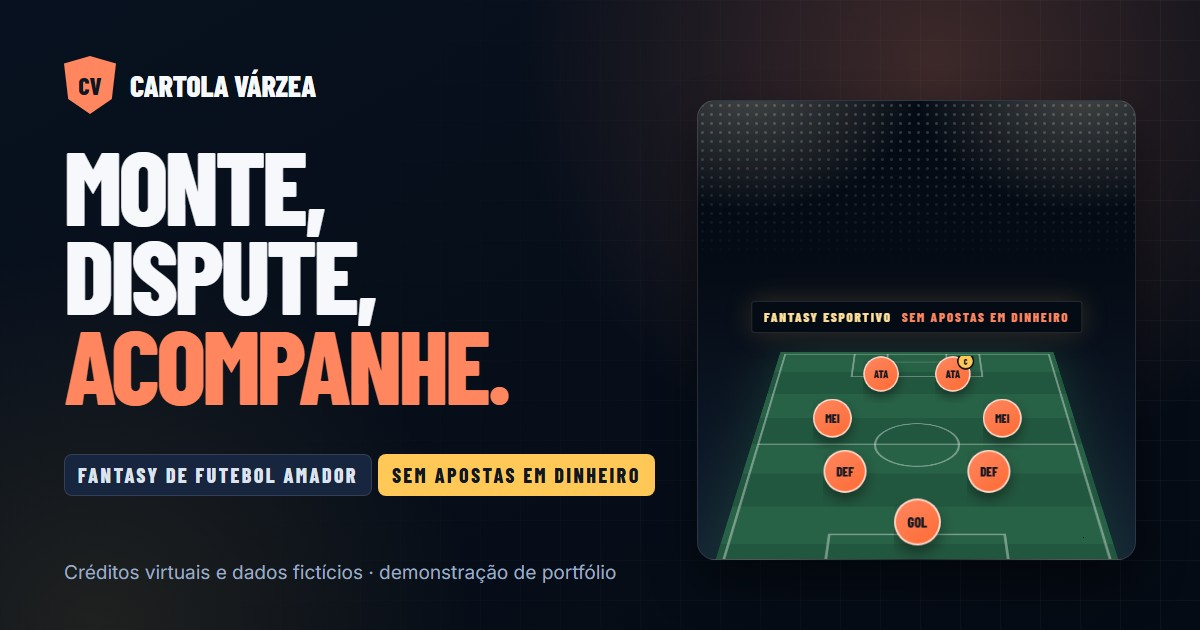
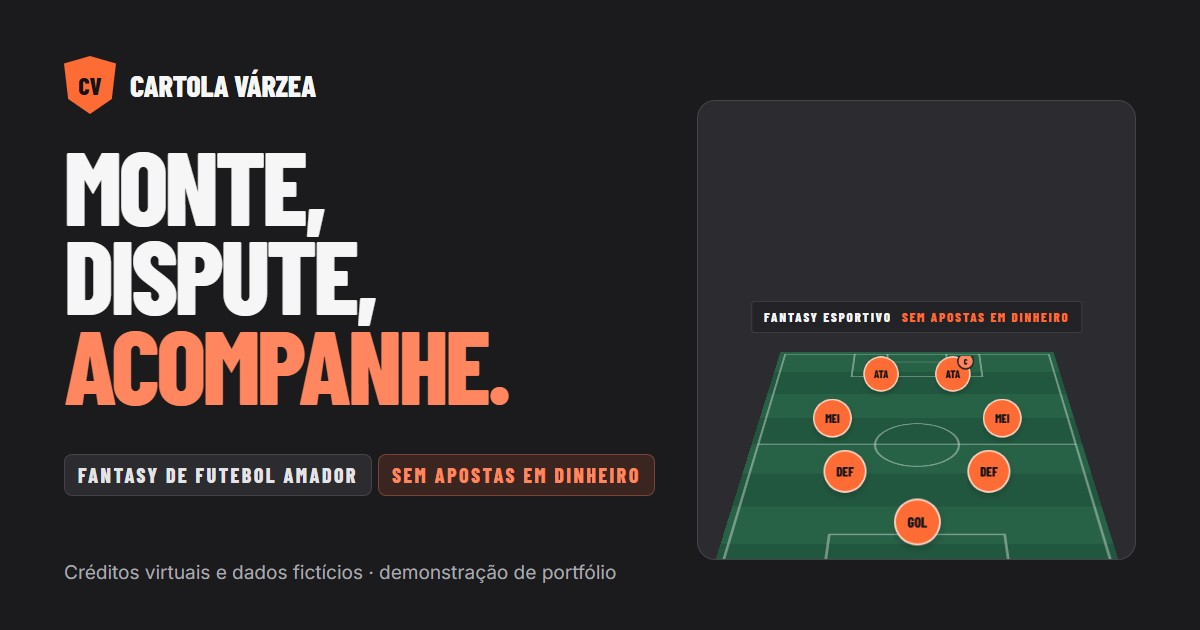
feat: regera o cartão de compartilhamento no grafite e laranja
O HTML da imagem Open Graph seguia a noite azul-marinho, com prancheta, torcida em
pontos e refletores. Passa ao fundo grafite liso, com o estádio e o selo no laranja
do jogo, e a imagem foi regerada (71 kB).

diff --git a/infra/og/cartola-varzea-og.html b/infra/og/cartola-varzea-og.html
@@ -1,6 +1,7 @@
 <!doctype html>
 <!--
-  Fonte da imagem de compartilhamento (Open Graph, 1200 x 630) da V5.
+  Fonte da imagem de compartilhamento (Open Graph, 1200 x 630) da V5, no grafite e laranja
+  do tema de jogo (2026-10-02): fundo liso, sem textura nem degradê.
 
   Só ativos próprios: as fontes são as mesmas auto-hospedadas do frontend, embutidas pelo
   gerador no lugar dos marcadores, e o estádio é o mesmo desenho em CSS e SVG da landing.
@@ -47,24 +48,9 @@
         height: 630px;
         overflow: hidden;
         padding: 56px 64px;
-        color: #f7f8fb;
+        color: #f6f6f7;
         font-family: 'Inter', sans-serif;
-        background:
-          radial-gradient(circle at 78% 10%, rgb(255 134 95 / 22%), transparent 420px),
-          radial-gradient(circle at 8% 100%, rgb(255 200 87 / 10%), transparent 380px),
-          linear-gradient(150deg, #08111f, #050b14);
-      }
-
-      /* Linhas de prancheta, só textura. */
-      .cartao::before {
-        position: absolute;
-        inset: 0;
-        content: '';
-        background-image:
-          linear-gradient(rgb(255 255 255 / 4%) 1px, transparent 1px),
-          linear-gradient(90deg, rgb(255 255 255 / 4%) 1px, transparent 1px);
-        background-size: 40px 40px;
-        mask-image: linear-gradient(110deg, transparent 20%, black 100%);
+        background: #1b1b1e;
       }
 
       .texto,
@@ -89,11 +75,11 @@
         width: 52px;
         height: 58px;
         place-items: center;
-        color: #101722;
+        color: #141416;
         font-family: 'Barlow Condensed', sans-serif;
         font-size: 24px;
         font-weight: 800;
-        background: #ff865f;
+        background: #ff6b35;
         clip-path: polygon(50% 0, 100% 13%, 92% 74%, 50% 100%, 8% 74%, 0 13%);
       }
 
@@ -139,18 +125,19 @@
       }
 
       .selo__marca {
-        color: #dce3ed;
-        background: #17263e;
+        color: #e4e4e7;
+        background: #2b2b30;
         box-shadow: inset 0 0 0 1px rgb(255 255 255 / 12%);
       }
 
       .selo__aviso {
-        color: #101722;
-        background: #ffc857;
+        color: #ff865f;
+        background: #3a2521;
+        box-shadow: inset 0 0 0 1px rgb(255 134 95 / 32%);
       }
 
       .rodape {
-        color: #9eabc0;
+        color: #a9a9b0;
         font-size: 19px;
       }
 
@@ -159,23 +146,9 @@
         position: relative;
         height: 460px;
         overflow: hidden;
-        background:
-          radial-gradient(ellipse 55% 40% at 12% -4%, rgb(255 244 214 / 26%), transparent 70%),
-          radial-gradient(ellipse 55% 40% at 88% -4%, rgb(255 244 214 / 26%), transparent 70%),
-          linear-gradient(180deg, #050b14 0 34%, #101c2f 100%);
+        background: #2b2b30;
         border: 1px solid rgb(255 255 255 / 12%);
         border-radius: 18px;
-        box-shadow: 0 24px 48px rgb(0 0 0 / 45%);
-      }
-
-      .estadio::before {
-        position: absolute;
-        inset: 0 0 auto;
-        height: 36%;
-        content: '';
-        background-image: radial-gradient(circle, rgb(255 255 255 / 18%) 1.2px, transparent 1.7px);
-        background-size: 9px 9px;
-        mask-image: linear-gradient(180deg, black 15%, transparent 100%);
       }
 
       .placa {
@@ -186,22 +159,21 @@
         display: flex;
         gap: 10px;
         padding: 7px 12px;
-        color: #ffe09a;
+        color: #f6f6f7;
         font-family: 'Barlow Condensed', sans-serif;
         font-size: 13px;
         font-weight: 800;
         letter-spacing: 0.14em;
         white-space: nowrap;
         text-transform: uppercase;
-        background: #050b14;
+        background: #232327;
         border: 1px solid rgb(255 255 255 / 12%);
         border-radius: 3px;
-        box-shadow: 0 0 28px rgb(255 200 87 / 18%);
         transform: translateX(-50%);
       }
 
       .placa__destaque {
-        color: #ff865f;
+        color: #ff6b35;
       }
 
       .gramado {
@@ -212,7 +184,6 @@
         aspect-ratio: 3 / 4;
         background: repeating-linear-gradient(180deg, #276146 0 12.5%, #22573f 12.5% 25%);
         border-radius: 4px;
-        box-shadow: 0 0 80px rgb(39 97 70 / 45%);
         transform: translateX(-50%) perspective(800px) rotateX(50deg);
         transform-origin: 50% 100%;
         transform-style: preserve-3d;
@@ -234,14 +205,14 @@
         width: 50px;
         aspect-ratio: 1;
         place-items: center;
-        color: #101722;
+        color: #141416;
         font-family: 'Barlow Condensed', sans-serif;
         font-size: 15px;
         font-weight: 800;
-        background: linear-gradient(145deg, #ff865f, #ff6b35);
+        background: #ff6b35;
         border: 2px solid rgb(255 255 255 / 72%);
         border-radius: 50%;
-        box-shadow: 0 8px 16px rgb(0 0 0 / 40%);
+        box-shadow: 0 4px 8px rgb(0 0 0 / 20%);
         transform: translate(-50%, -100%) rotateX(-50deg);
         transform-origin: 50% 100%;
       }
@@ -254,11 +225,11 @@
         width: 20px;
         aspect-ratio: 1;
         place-items: center;
-        color: #101722;
+        color: #141416;
         font-size: 11px;
         content: 'C';
-        background: #ffc857;
-        border: 2px solid #050b14;
+        background: #ff865f;
+        border: 2px solid #232327;
         border-radius: 50%;
       }
     </style>
